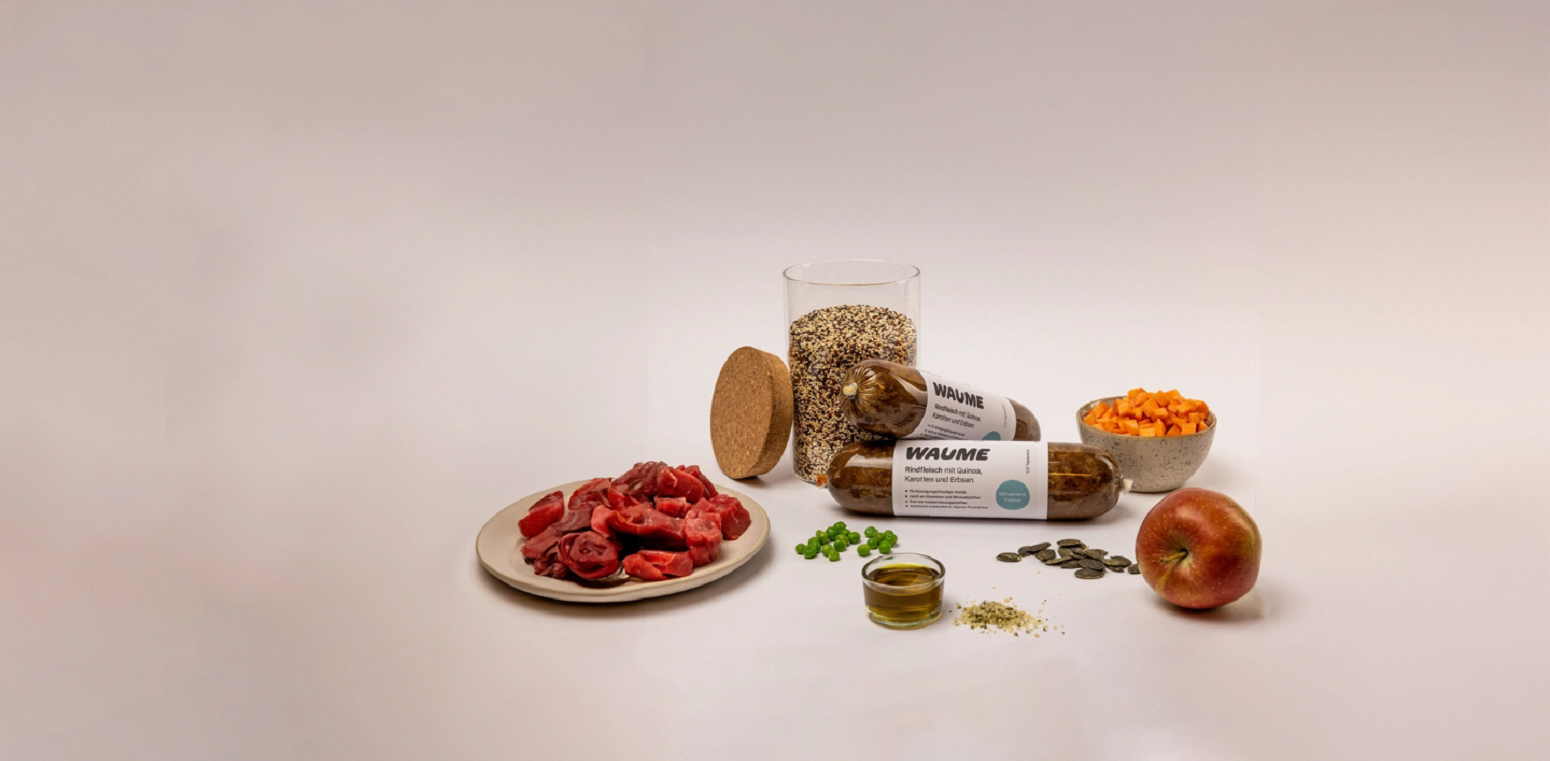
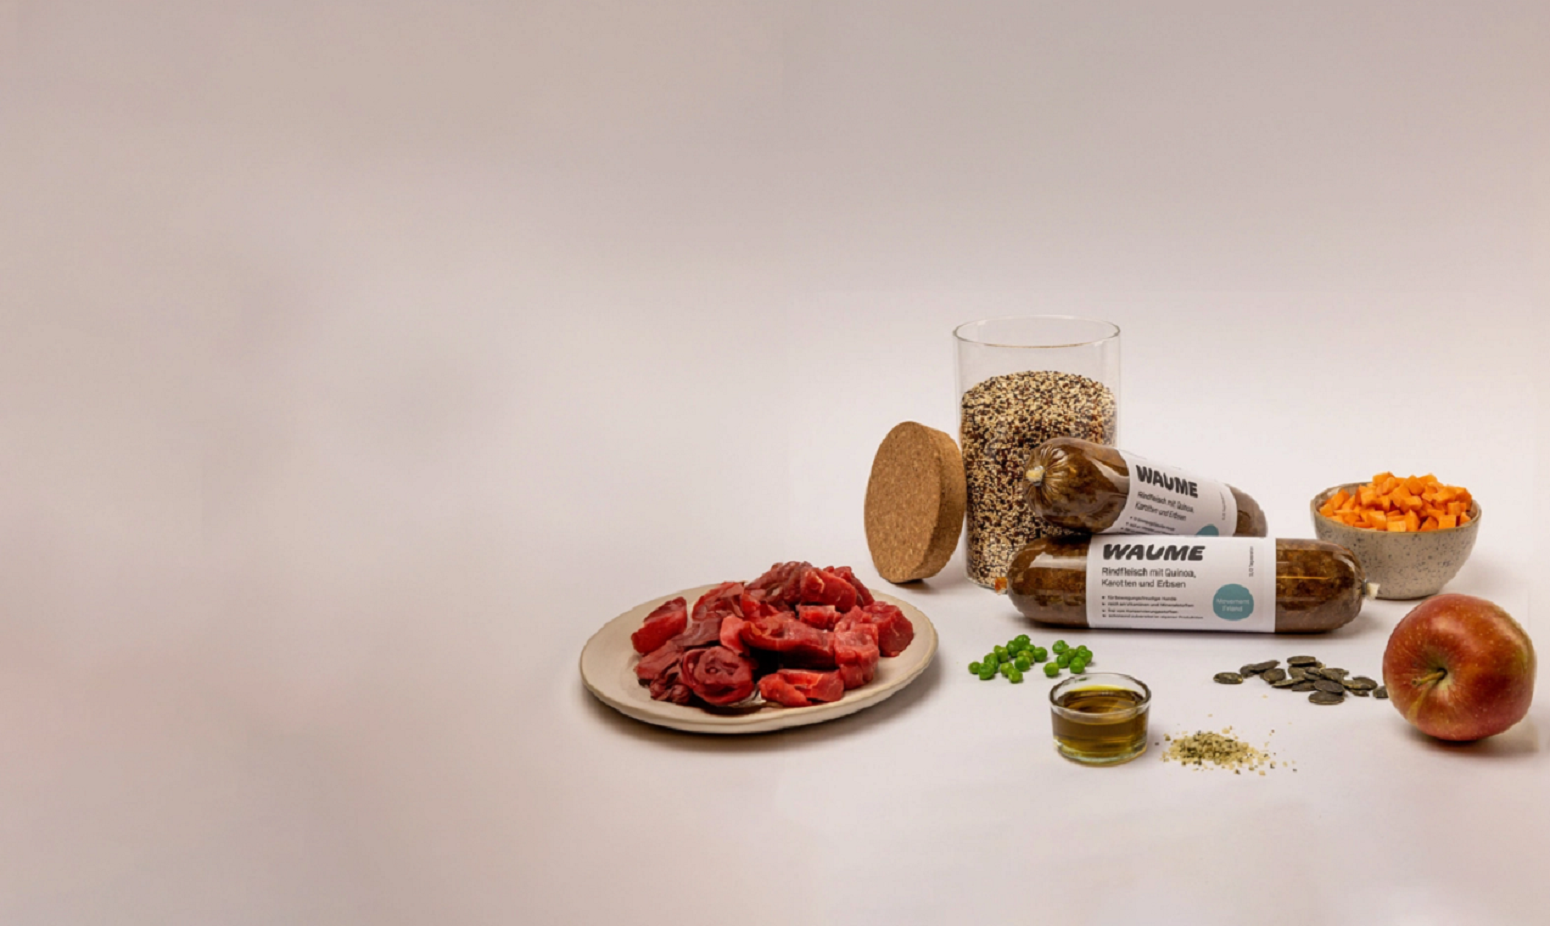
mobile ui improv

Changed region(s): [[0.3097, 0.3627, 1.0, 0.8765]]

diff --git a/components/Nav.jsx b/components/Nav.jsx
@@ -113,7 +113,7 @@ const Navbar = ({ className = "bg-white" }) => {
           `}
         </style>
 
-        <div className="max-w-screen-xl mx-auto flex justify-around items-center ">
+        <div className="flex justify-evenly items-center ">
           <div className="flex justify-center">
             <Link href="/">
               <Image src={logo} height={50} alt="logo" />
@@ -124,7 +124,7 @@ const Navbar = ({ className = "bg-white" }) => {
               <ul className="flex flex-col font-hossRound p-4 md:p-0 mt-4 text-gray-500 border border-gray-100 rounded-lg md:flex-row md:space-x-8 rtl:space-x-reverse md:mt-0 md:border-0 ">
                 <li>
                   <Link
-                    href="#"
+                    href="/"
                     className="block py-2 px-3  rounded  hover:bg-gray-100 md:hover:bg-transparent md:border-0 md:hover:text-blue-700 md:p-0 mt-1 "
                     aria-current="page"
                   >
@@ -224,16 +224,7 @@ const Navbar = ({ className = "bg-white" }) => {
               </ul>
             </div>
           </div>
-          <CircleUserRound
-            height={40}
-            width={40}
-            onClick={() => {
-              router.push("/profile");
-            }}
-            className={`text-gray-500 cursor-pointer ${
-              isLoggedIn ? "block" : "hidden"
-            }`}
-          />
+
           <div
             className={
               !showDropdown
@@ -257,6 +248,16 @@ const Navbar = ({ className = "bg-white" }) => {
               {isLoggedIn ? "Logout" : "Login"}
             </ThemeButton>
           </div>
+          <CircleUserRound
+            height={40}
+            width={40}
+            onClick={() => {
+              router.push("/profile");
+            }}
+            className={`text-gray-500 cursor-pointer ${
+              isLoggedIn ? "block" : "hidden"
+            }`}
+          />
         </div>
       </nav>
 
@@ -368,13 +369,17 @@ const Navbar = ({ className = "bg-white" }) => {
                   FAQ
                 </Link>
               </li>
-              {/* <li className="bg-red-500">
-                <div
-                  id="google_translate_element"
-                  // className="w-10 h-2"
-                  // style={{ height: "20px" }}
-                ></div>
-              </li> */}
+              <li>
+                {isLoggedIn && (
+                  <Link
+                    href="/profile"
+                    className="block py-2 px-3 text-gray-900 rounded hover:bg-gray-100 md:hover:bg-transparent md:border-0  md:p-0 mt-1 "
+                    onClick={() => router.push("/profile")}
+                  >
+                    Profile
+                  </Link>
+                )}
+              </li>
               <li>
                 <Link
                   href="/login"

diff --git a/app/resetPassword/page.js b/app/resetPassword/page.js
@@ -4,6 +4,8 @@ import axios from "axios";
 import { toast, ToastContainer } from "react-toastify";
 import "react-toastify/dist/ReactToastify.css";
 import { useRouter } from "next/navigation";
+import RoundInput from "@components/roundInput";
+import ThemeButton from "@components/themeButton";
 
 const ResetPasswordPage = () => {
   const [password, setPassword] = useState("");
@@ -18,7 +20,7 @@ const ResetPasswordPage = () => {
         return;
       }
 
-      const token = window.location.search.split("=")[1];
+      const token = new URLSearchParams(window.location.search).get("token");
       if (!token) {
         toast.error("Token not found");
         router.push("/");
@@ -44,32 +46,27 @@ const ResetPasswordPage = () => {
   };
 
   return (
-    <div className="max-w-md mx-auto mt-8 p-4 bg-gray-100 rounded-lg">
+    <div className="max-w-md mx-auto mt-8 p-4 bg-gray-100 mb-20 rounded-lg">
       <ToastContainer />
       <div>
-        <p className="text-lg  mb-4">Reset Password</p>
-        <form>
-          <input
-            className="block w-full rounded-md bg-gray-200 border-transparent focus:border-gray-500 focus:bg-white focus:ring-0"
+        <p className="text-lg text-center  mb-4">Reset Password</p>
+        <form className="flex flex-col justify-center">
+          <RoundInput
             type="password"
             placeholder="New Password"
             value={password}
-            onChange={(e) => setPassword(e.target.value)}
+            setValue={setPassword}
           />
-          <input
-            className="block w-full mt-2 rounded-md bg-gray-200 border-transparent focus:border-gray-500 focus:bg-white focus:ring-0"
+          <RoundInput
             type="password"
             placeholder="Confirm Password"
             value={confirmPassword}
-            onChange={(e) => setConfirmPassword(e.target.value)}
+            setValue={setConfirmPassword}
+            className="mt-2"
           />
-          <button
-            className="mt-4 bg-blue-500 hover:bg-blue-600 text-white  py-2 px-4 rounded"
-            type="button"
-            onClick={handleResetPassword}
-          >
+          <ThemeButton className="mt-4" onClick={handleResetPassword}>
             Reset Password
-          </button>
+          </ThemeButton>
         </form>
       </div>
     </div>

diff --git a/app/forgotPassword/page.js b/app/forgotPassword/page.js
@@ -4,6 +4,8 @@ import axios from "axios";
 import { toast, ToastContainer } from "react-toastify";
 import "react-toastify/dist/ReactToastify.css";
 import { useRouter } from "next/navigation";
+import RoundInput from "@components/roundInput";
+import ThemeButton from "@components/themeButton";
 
 const ForgotPasswordPage = () => {
   const [email, setEmail] = useState("");
@@ -27,27 +29,21 @@ const ForgotPasswordPage = () => {
   };
 
   return (
-    <div className="max-w-md mx-auto mt-8 p-4 bg-gray-100 rounded-lg">
+    <div className="max-w-md mx-auto mt-8 p-4 bg-gray-100 rounded-lg mb-20">
       <ToastContainer />
-      <div>
-        <p className="text-lg  mb-4">Forgot Password</p>
-        <form>
-          <input
-            className="block w-full rounded-md bg-gray-200 border-transparent focus:border-gray-500 focus:bg-white focus:ring-0"
-            type="email"
-            placeholder="Email"
-            value={email}
-            onChange={(e) => setEmail(e.target.value)}
-          />
-          <button
-            className="mt-4 bg-blue-500 hover:bg-blue-600 text-white  py-2 px-4 rounded"
-            type="button"
-            onClick={handleForgotPassword}
-          >
-            Forgot Password
-          </button>
-        </form>
-      </div>
+
+      <p className="text-lg text-center  mb-4">Forgot Password</p>
+      <form className="flex flex-col justify-center">
+        <RoundInput
+          type="email"
+          placeholder="Email"
+          value={email}
+          setValue={setEmail}
+        />
+        <ThemeButton className="mt-4" onClick={handleForgotPassword}>
+          Forgot Password
+        </ThemeButton>
+      </form>
     </div>
   );
 };

diff --git a/components/discountBanner.js b/components/discountBanner.js
@@ -1,15 +1,24 @@
 import { useState } from "react";
 import { X } from "lucide-react";
+import { useRouter } from "next/navigation";
 
 export default function DiscountBanner() {
   const [isVisible, setIsVisible] = useState(true);
+  const router = useRouter();
 
   if (!isVisible) {
     return null; // Don't render the banner if it has been dismissed
   }
 
+  const handleBannerClick = () => {
+    router.push("/form"); // Redirect to the form page when the banner is clicked
+  };
+
   return (
-    <div className="relative flex justify-center items-center gap-x-6 overflow-hidden bg-softBlack px-6 py-1 sm:px-2">
+    <div
+      className="relative flex justify-center items-center cursor-pointer gap-x-6 overflow-hidden bg-softBlack px-6 py-1 sm:px-2"
+      onClick={handleBannerClick}
+    >
       <div className="flex flex-1 justify-center items-center gap-x-4 gap-y-2">
         <p className="text-sm leading-6 text-white">
           Get 20% off your starter box now! Let's go!

diff --git a/components/products/hero.js b/components/products/hero.js
@@ -17,8 +17,13 @@ const Hero = ({ prodName }) => {
 
   return (
     <div
-      className={`flex flex-col h-[525px] md:h-[650px] bg-secondaryLight overflow-hidden pt-8`}
-      style={{ backgroundImage: `url(${backgroundImageUrl})` }}
+      className={`flex flex-col h-[525px] md:h-[650px] md:flex-row bg-secondaryLight overflow-hidden pt-8`}
+      style={{
+        backgroundImage: `url(${backgroundImageUrl})`,
+        backgroundSize: "cover",
+        backgroundRepeat: "no-repeat",
+        backgroundPosition: "center",
+      }}
     >
       {/* <Image src={BellyB} className=""/> */}
       <div className="md:w-1/2 h-full flex flex-col md:justify-center font-hossRound ">
